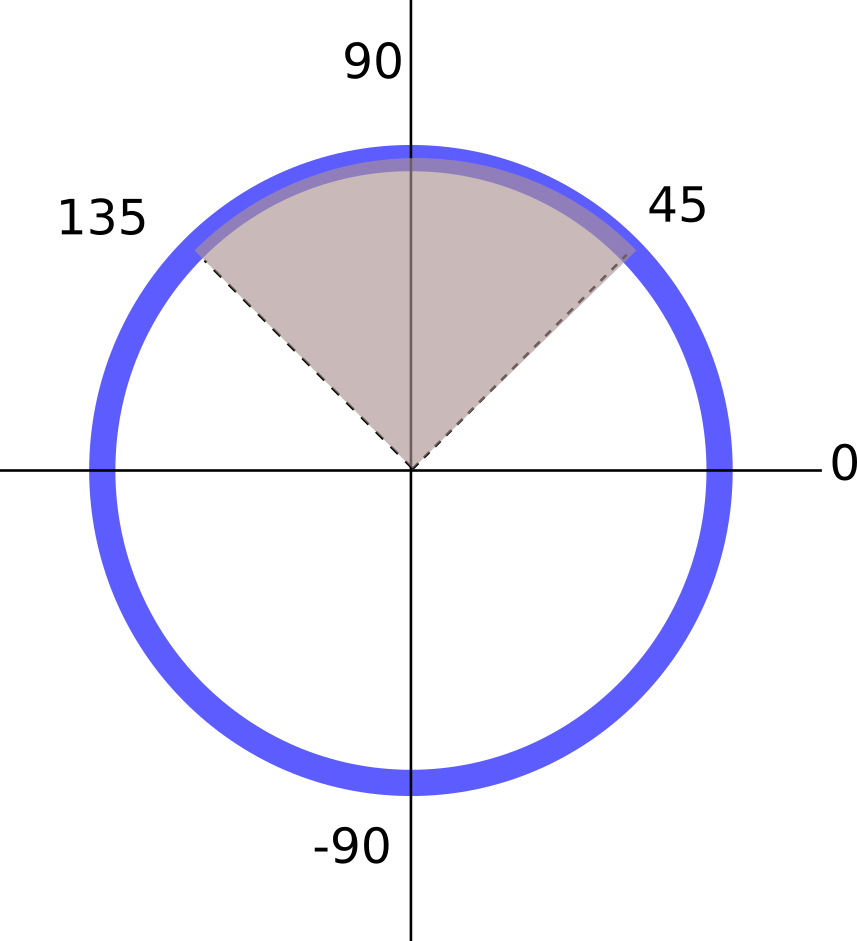
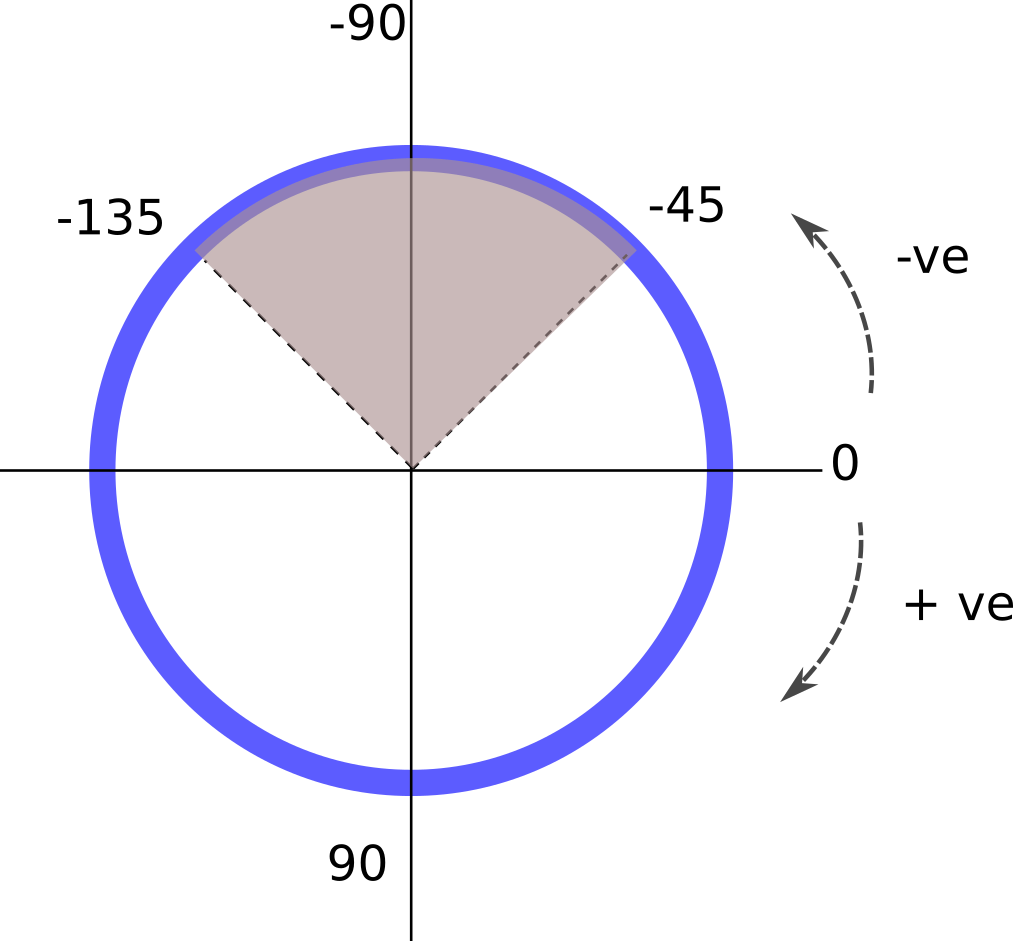
correct sign for azimuthal sector in documentation

diff --git a/docs/source/optional_setup_giwaxs.rst b/docs/source/optional_setup_giwaxs.rst
@@ -70,7 +70,7 @@ GIWAXS masking
 
 .. confval::  azimuthal_sector
     
-    define an azimuthal range over which to carry out the 1d integration for IvsQ. The convention is setting directly to the right of the beam centre as 0, and going counter clockwise increases the degrees to the positive direction, and going clockwise increases the degrees in the negative direction. Then provide the sector going from largest positive angle to largest negative angle, for example the sector shown in the diagram below is given by the values (135, 45)
+    define an azimuthal range over which to carry out the 1d integration for IvsQ. The convention is setting directly to the right of the beam centre as 0, and going counter clockwise increases the degrees to the negative direction, and going clockwise increases the degrees in the positive direction. Then provide the sector going from largest negative angle to largest positive angle, for example the sector shown in the diagram below is given by the values (-135, -45)
 
 .. figure:: figures/azimuthal_sector.png
     :width: 300px